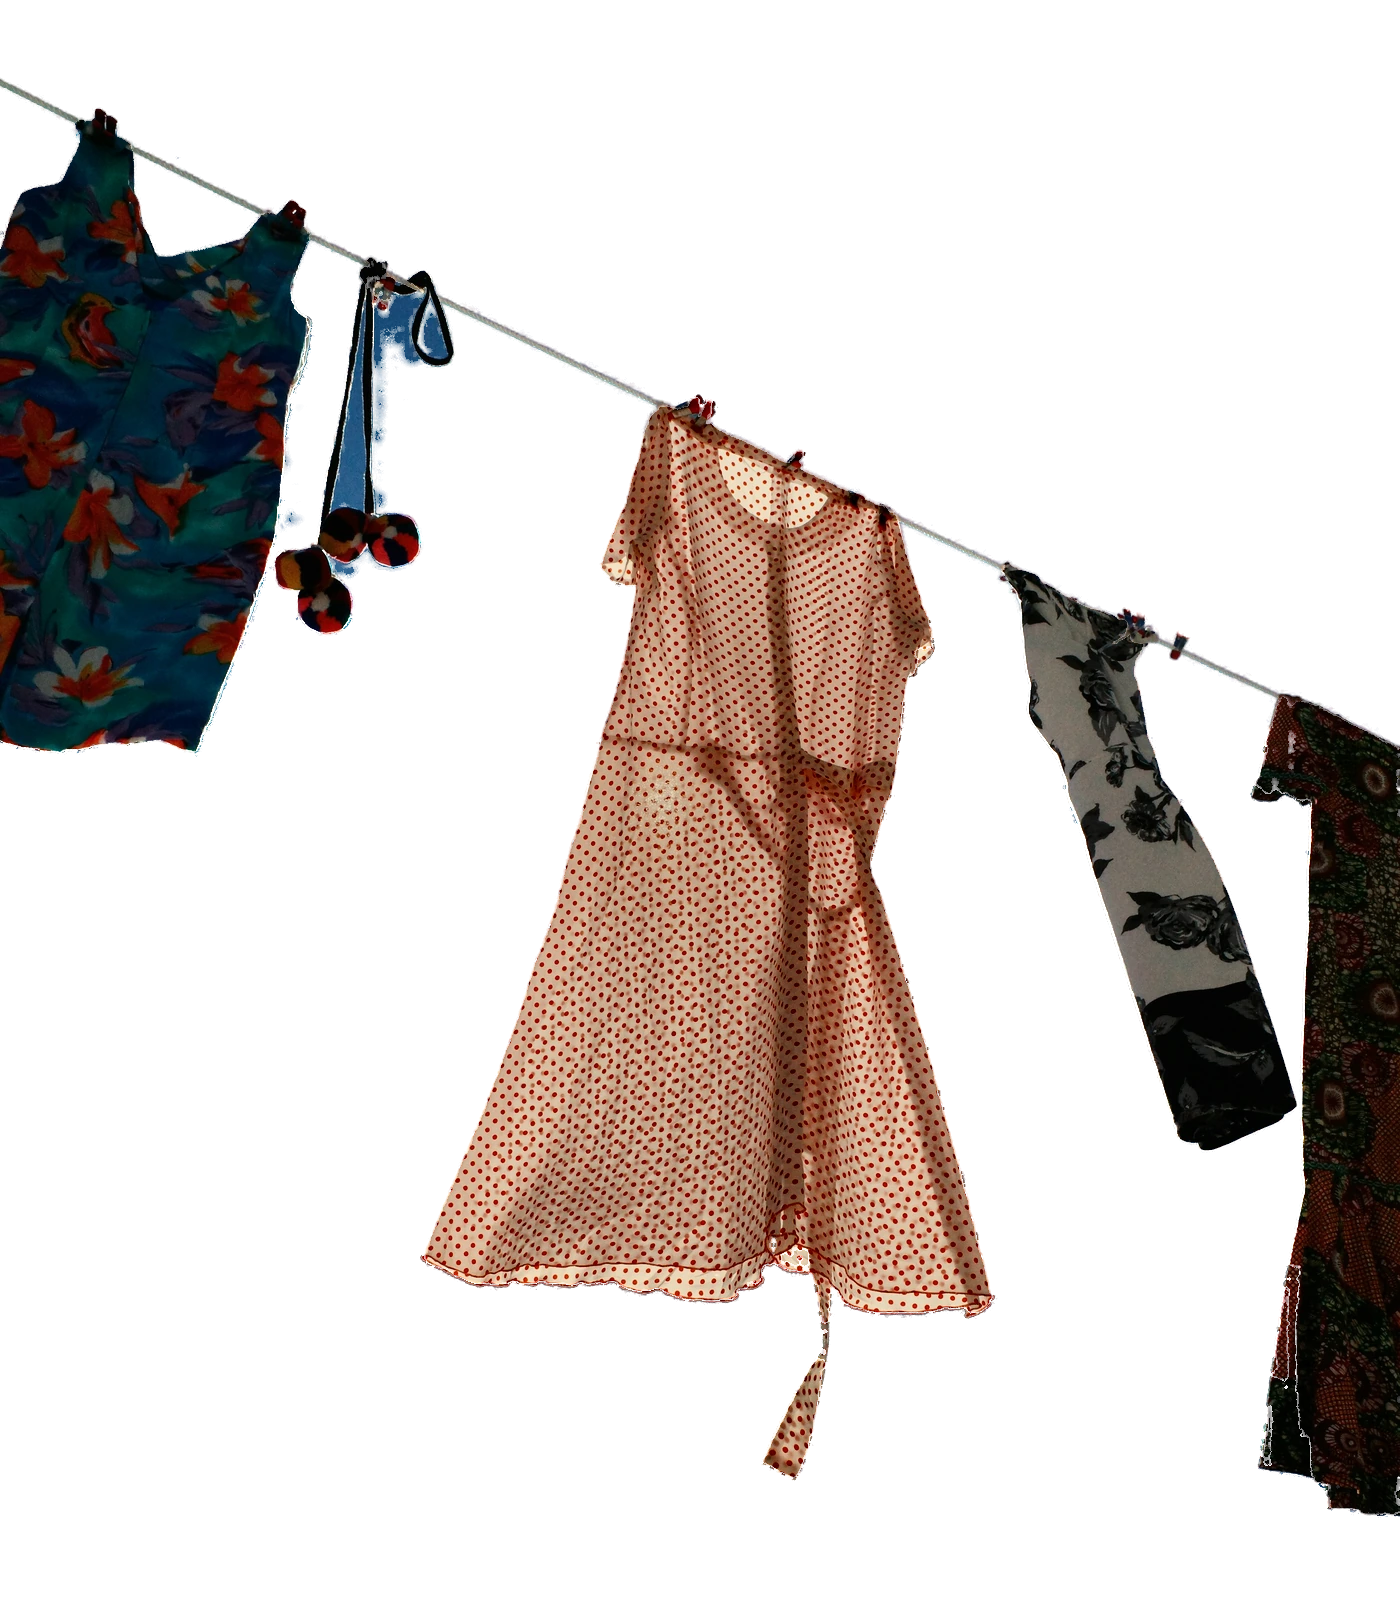
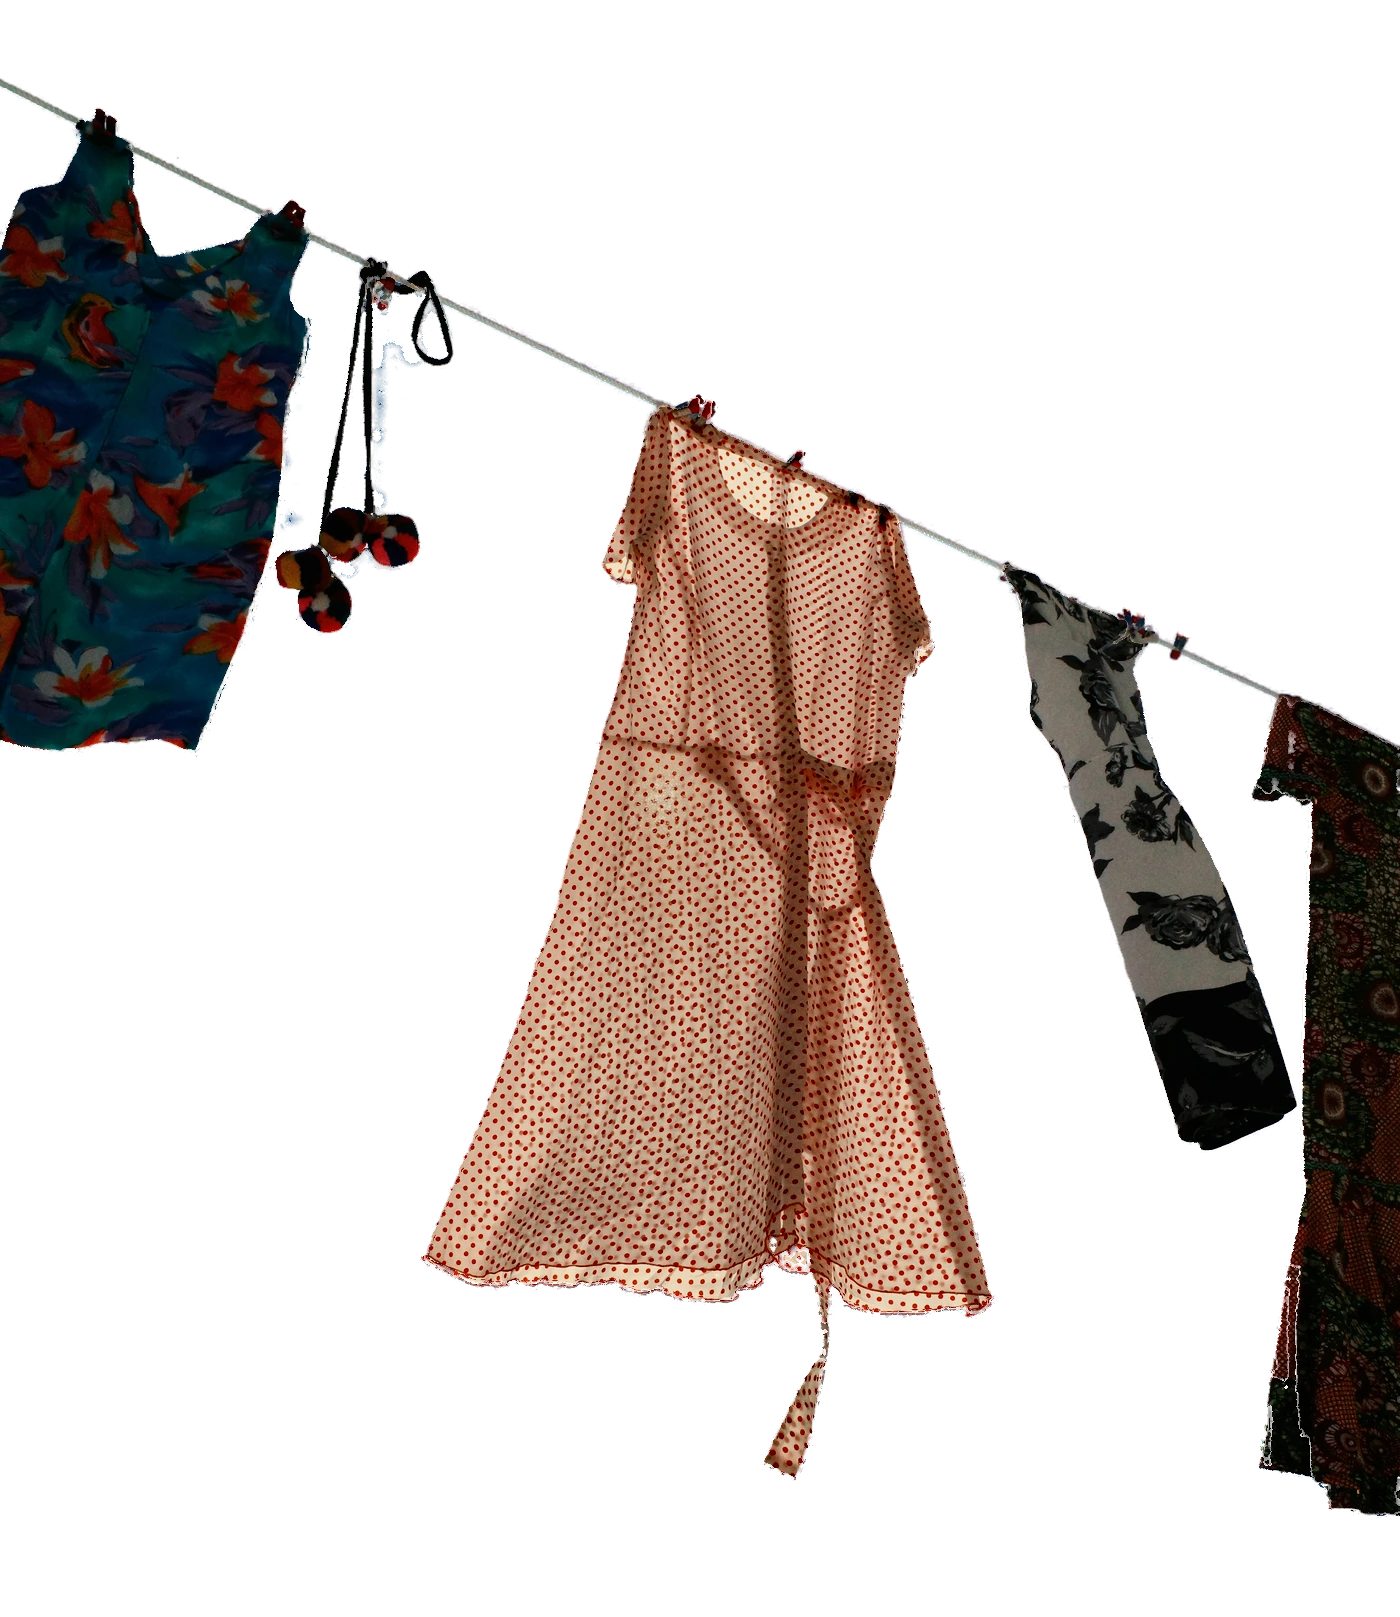
Lab: climb sentaku round 1
Claude-Session: https://claude.ai/code/session_01RqENhngNCzDFmJWDZueXGV

Changed region(s): [[0.215, 0.1546, 0.3379, 0.3711], [0.645, 0.402, 0.6757, 0.4329], [0.5529, 0.773, 0.5836, 0.804]]

diff --git a/src/app/lab/sentaku/sentakuEngine.js b/src/app/lab/sentaku/sentakuEngine.js
@@ -95,6 +95,7 @@ const DISC = 20; // px, the disc the coverage is sampled over
 const DRESS_T = 0.3; // the share of the sun the sheer dress lets through to the lens
 const ADAPT = 0.25; // stops the exposure gives back with the disc in clear view
 const RIM = { 3: 0.9, 4: 1.0 }; // the dress and the black-and-white top catch the sun at the edge
+const EDGE_GLOW = 1; // every garment's clean edge, lit warm from the sun behind it
 const VS = 7; // floats per cloth vertex
 const MU_MIN = 0.15; // the view cosine's floor: edge-on is dense, not opaque
 // The dress's belt tie, in photograph px: a strip cut square at its end, so
@@ -212,6 +213,7 @@ uniform float uId;
 uniform vec3 uTau;
 uniform vec2 uBand; // mirror width past the left and right frame edge, 0 = not cut there
 uniform float uRim;  // how strongly this garment's edge catches the sun
+uniform float uEdge; // the thin warm rim on a garment's clean edge, 0 for the rope
 uniform float uOpen; // the share of the disc in clear view
 uniform int uPass;   // 0 the cloth, 1 the second layer of a sheer fold, multiplied in
 uniform vec4 uTie;   // a strip whose square-cut matte is rounded, in photograph px
@@ -314,14 +316,25 @@ void main() {
     o = vec4(mix(vec3(1.0), r, L.a), 1.0);
     return;
   }
+  vec2 ts = uSun - vPos;
+  float ds = length(ts);
+  vec2 dir = ts / max(ds, 1.0);
+  if (uEdge > 0.0) {
+    // The edge's own light. The bake took the photograph's pale ring off
+    // every matte (it read as a sticker's border once the cloth moved); what
+    // it stood for is the sun behind the line coming through the last fibres.
+    // So the pixel or two of edge that faces the sun warms: its own colour
+    // pushed toward amber (red up, blue down) with a touch of sunlight, never
+    // toward white, more the nearer the sun, wherever the cloth is now.
+    float thin = clamp(L.a - 0.5 * (alphaAt(s + dir * 1.5) + alphaAt(s + dir * 3.0)), 0.0, 1.0);
+    float w = thin * uEdge * (0.45 + 1.2 * exp(-ds / 420.0));
+    col = max(col + w * (col * vec3(0.5, 0.08, -0.3) + vec3(0.03, 0.011, 0.0)), 0.0);
+  }
   if (uRim * uOpen > 0.0) {
     // Rim: the edge that faces the sun, where the matte falls away towards
     // it, catches the light coming round it; strongest close to the disc.
-    vec2 ts = uSun - vPos;
-    float ds = length(ts);
-    vec2 dir = ts / max(ds, 1.0);
     float edge = clamp(L.a - 0.5 * (alphaAt(s + dir * 3.0) + alphaAt(s + dir * 9.0)), 0.0, 1.0);
-    col += vec3(1.0, 0.9, 0.74) * edge * exp(-ds / 380.0) * uOpen * uRim;
+    col += vec3(1.0, 0.84, 0.62) * edge * exp(-ds / 380.0) * uOpen * uRim;
   }
   col += veil(vPos);
   o = vec4(encode(col) * L.a, L.a);
@@ -754,6 +767,7 @@ export async function createSentaku(host, { embedded = false } = {}) {
       gl.uniform3f(clothP.u.uTau, r.tau[0], r.tau[1], r.tau[2]);
       gl.uniform2f(clothP.u.uBand, r.band[0], r.band[1]);
       gl.uniform1f(clothP.u.uRim, RIM[r.id] ?? 0);
+      gl.uniform1f(clothP.u.uEdge, r.id < 6 ? EDGE_GLOW : 0);
       if (r.id === 3) gl.uniform4f(clothP.u.uTie, TIE[0], TIE[1], TIE[2], TIE[3]);
       else gl.uniform4f(clothP.u.uTie, 0, 0, 0, 0);
       const draw = () => gl.drawElements(gl.TRIANGLES, r.count, gl.UNSIGNED_INT, r.start * 4);

diff --git a/tools/depth/bakes/sentaku/bake.py b/tools/depth/bakes/sentaku/bake.py
@@ -20,6 +20,8 @@ What it does
  3. Colour unmixing: F = (I - (1 - a) P) / a against the filled plate P, so a
     garment edge carries no sky; F is push-pulled out under a = 0 so bilinear
     sampling never pulls in black.
+ 3b. Clean edges: the pale ring the backlit cloth carries against the sky is
+    eroded off the matte and the edge repainted from the fabric inward.
  4. Sheer fabric: the dress is see-through. Its low frequencies are regressed on
     the blurred plate behind it, O = A + tau * B, per channel; the layer stores A,
     the runtime adds tau * B at wherever the cloth is now. So the sun spot that
@@ -32,6 +34,7 @@ import json, os, sys
 import numpy as np
 from PIL import Image
 import cv2
+from scipy import ndimage
 
 sys.path.insert(0, os.path.join(os.path.dirname(__file__), "..", ".."))
 import kit  # noqa: E402
@@ -223,6 +226,89 @@ for g in meta["garments"]:
     if max(g["tau"]) > 0:
         sel = ids == g["id"]
         F[sel] = np.clip(F[sel] - np.array(g["tau"]) * Bblur[sel], 0, 1)
+
+# ---- 3b. clean matte edges ---------------------------------------------------------
+# Against the sky every garment carries a pale ring a pixel or two wide: the
+# backlit fuzz of the cloth and the lens's glow round it, which the matte took
+# in as fabric and the unmixing cannot remove (it is brighter than the sky, so
+# it is no mix of sky and cloth). Cut out and moved, that ring reads as a
+# sticker's white border. Each edge pixel is held against the solid fabric
+# nearest it inward (in a cord too thin to have any, the darkest of the cord
+# round it): where it is paler, it is the ring. There the matte is eroded about
+# 1.5 px against the sky only (another layer, or the frame, counts as solid, so
+# no seam opens between two garments; a thin part by 1 px) and the colour is
+# replaced by that fabric's. A real dark edge (a rolled hem, a cord) is not
+# paler than the cloth behind it, so it stays. The runtime lights the clean
+# edge as a thin warm rim where it faces the sun.
+EDGE_BAND = 4.0   # px in from the matte's half-alpha line that can carry the ring
+EDGE_REACH = 7.0  # px; past this from solid fabric, a thin part: its darkest is used
+alpha_mesh = alpha.copy()  # the cloth's mass and wind area stay the photograph's
+# Sky the matte took in whole (between the pom-poms' cords): a patch of the
+# layer that is the plate's own colour carries a slab of sky with the cloth.
+# Out it goes, and a pixel round it fades by how far its colour is from the
+# sky's, so the cord it ran along keeps a soft edge.
+skyd = np.abs(F - plate).max(-1)
+skylike = (ids > 0) & (ids < 6) & (alpha > 0.5) & (skyd < 0.08)
+n_, lab_, st_, _ = cv2.connectedComponentsWithStats(skylike.astype(np.uint8))
+skylike = np.isin(lab_, np.nonzero(st_[1:, 4] >= 30)[0] + 1)
+near_sky = kit.dilate(skylike.astype(np.float32), 1) & (ids > 0) & (ids < 6)
+alpha = np.where(near_sky, alpha * kit.smoothstep(0.05, 0.2, skyd), alpha).astype(np.float32)
+print("edge: sky taken out of the mattes", int(skylike.sum()), "px")
+Wl = np.array([0.2126, 0.7152, 0.0722], np.float32)
+lum = F @ Wl
+cross = cv2.getStructuringElement(cv2.MORPH_CROSS, (3, 3))
+e1 = cv2.erode(alpha, cross, borderType=cv2.BORDER_REPLICATE)
+e2 = cv2.erode(e1, cross, borderType=cv2.BORDER_REPLICATE)
+survive = cv2.dilate(0.5 * (e1 + e2), kit.disk(3).astype(np.uint8))
+thick = kit.smoothstep(0.5, 0.9, survive)
+eroded = np.minimum(alpha, thick * 0.5 * (e1 + e2) + (1 - thick) * e1)
+inside = ndimage.distance_transform_edt(alpha >= 0.5)  # px to the nearest sky
+garm = (ids > 0) & (ids < 6)
+gate = np.zeros((H, Wd), np.float32)  # how much paler than its fabric an edge pixel is
+Cin = F.copy()
+sky_l = plate @ Wl
+# the darkest pixel of the same layer within 2 px that lies deeper inside: a
+# ring is paler than the cloth it wraps, even where that cloth is a dark hem
+# line or a cord with no solid interior at all
+deep_l = np.full((H, Wd), 9.0, np.float32)
+deep_c = F.copy()
+pad = 2
+idp = np.pad(ids, pad, mode="edge")
+lp = np.pad(np.where(alpha > 0.5, lum, 9.0), pad, mode="edge")
+ip = np.pad(inside, pad, mode="edge")
+Fp = np.pad(F, ((pad, pad), (pad, pad), (0, 0)), mode="edge")
+for dy in range(-pad, pad + 1):
+    for dx in range(-pad, pad + 1):
+        if dx * dx + dy * dy > pad * pad + 1 or (dx == 0 and dy == 0):
+            continue
+        sl = (slice(pad + dy, pad + dy + H), slice(pad + dx, pad + dx + Wd))
+        ok = (idp[sl] == ids) & (ip[sl] > inside + 0.5) & (lp[sl] < deep_l)
+        deep_l = np.where(ok, lp[sl], deep_l)
+        deep_c = np.where(ok[..., None], Fp[sl], deep_c)
+for g in meta["garments"]:
+    own = ids == g["id"]
+    band = own & (alpha > 0) & (inside < EDGE_BAND)
+    solid = own & (inside >= EDGE_BAND)
+    c = deep_c
+    if solid.any():
+        dn, (iy, ix) = ndimage.distance_transform_edt(~solid, return_indices=True)
+        # a pixel's worth of smoothing along the edge, so the repaint has no streaks
+        sw = kit.blur(solid.astype(np.float32), 1.0)
+        near = np.where(sw[..., None] > 0.2, kit.blur(F * solid[..., None], 1.0) / np.maximum(sw, 1e-4)[..., None], F[iy, ix])
+        use = (dn <= EDGE_REACH) & ((near @ Wl) <= deep_l + 0.02)
+        c = np.where(use[..., None], near, deep_c)
+    has = band & ((c @ Wl) < 8.0)
+    Cin[has] = c[has]
+    # paler than the cloth inward, and paler than the sky: a dark edge is no ring
+    pale = kit.smoothstep(0.03, 0.12, lum - c @ Wl) * kit.smoothstep(0.0, 0.08, lum - sky_l)
+    gate[has] = pale[has]
+# erode where the ring is, and a pixel round it, so the ring's outer half goes too
+S = np.where(garm & (inside < EDGE_BAND + 1), np.maximum(gate, cv2.dilate(gate, cross)), 0)
+alpha = (alpha * (1 - S) + eroded * S).astype(np.float32)
+alpha = np.where(alpha < 0.015, 0, alpha)
+F = F * (1 - gate[..., None]) + Cin * gate[..., None]
+print("edge: ring", int((gate > 0.5).sum()), "px; alpha", round(float(alpha_mesh.sum())), "->", round(float(alpha.sum())))
+
 w = (alpha > 0.02).astype(np.float32)
 F = np.where(w[..., None] > 0, F, kit.pushpull(F, w))
 ids_bleed = cv2.dilate(ids, np.ones((5, 5), np.uint8))
@@ -242,7 +328,7 @@ print("recomposite mean abs error (8-bit levels):", round(float(err), 2))
 # ---- 5. mesh cells -------------------------------------------------------------
 for g in meta["garments"]:
     gid = g["id"]
-    a = np.where(ids == gid, alpha, 0)
+    a = np.where(ids == gid, alpha_mesh, 0)
     x0, y0, x1, y1 = g["bbox"]
     gx0, gy0 = x0 - 6, y0 - 6
     nx = int(np.ceil((x1 + 6 - gx0) / CELL))
